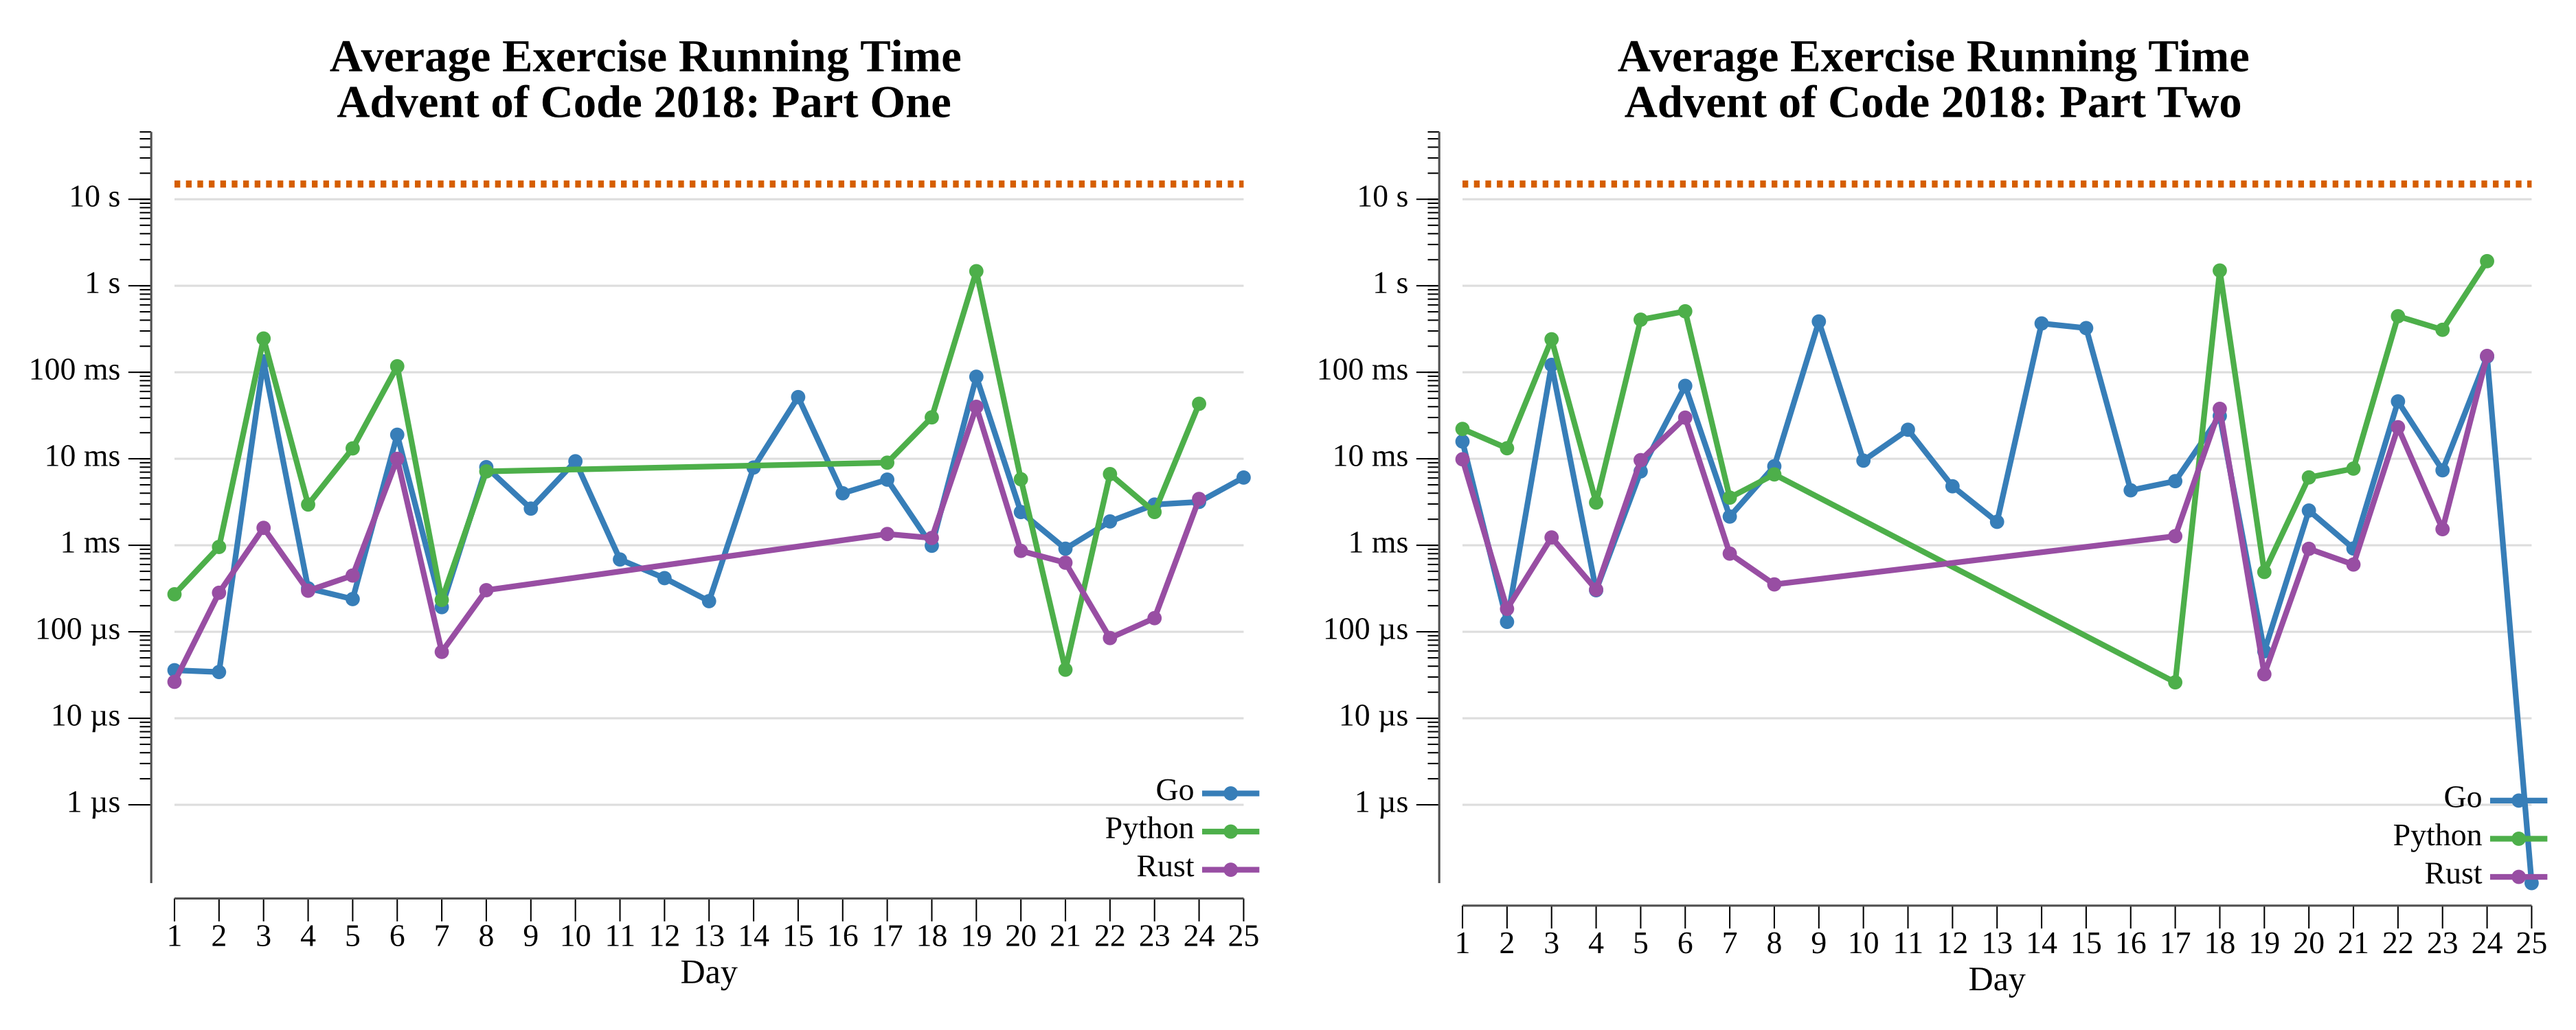
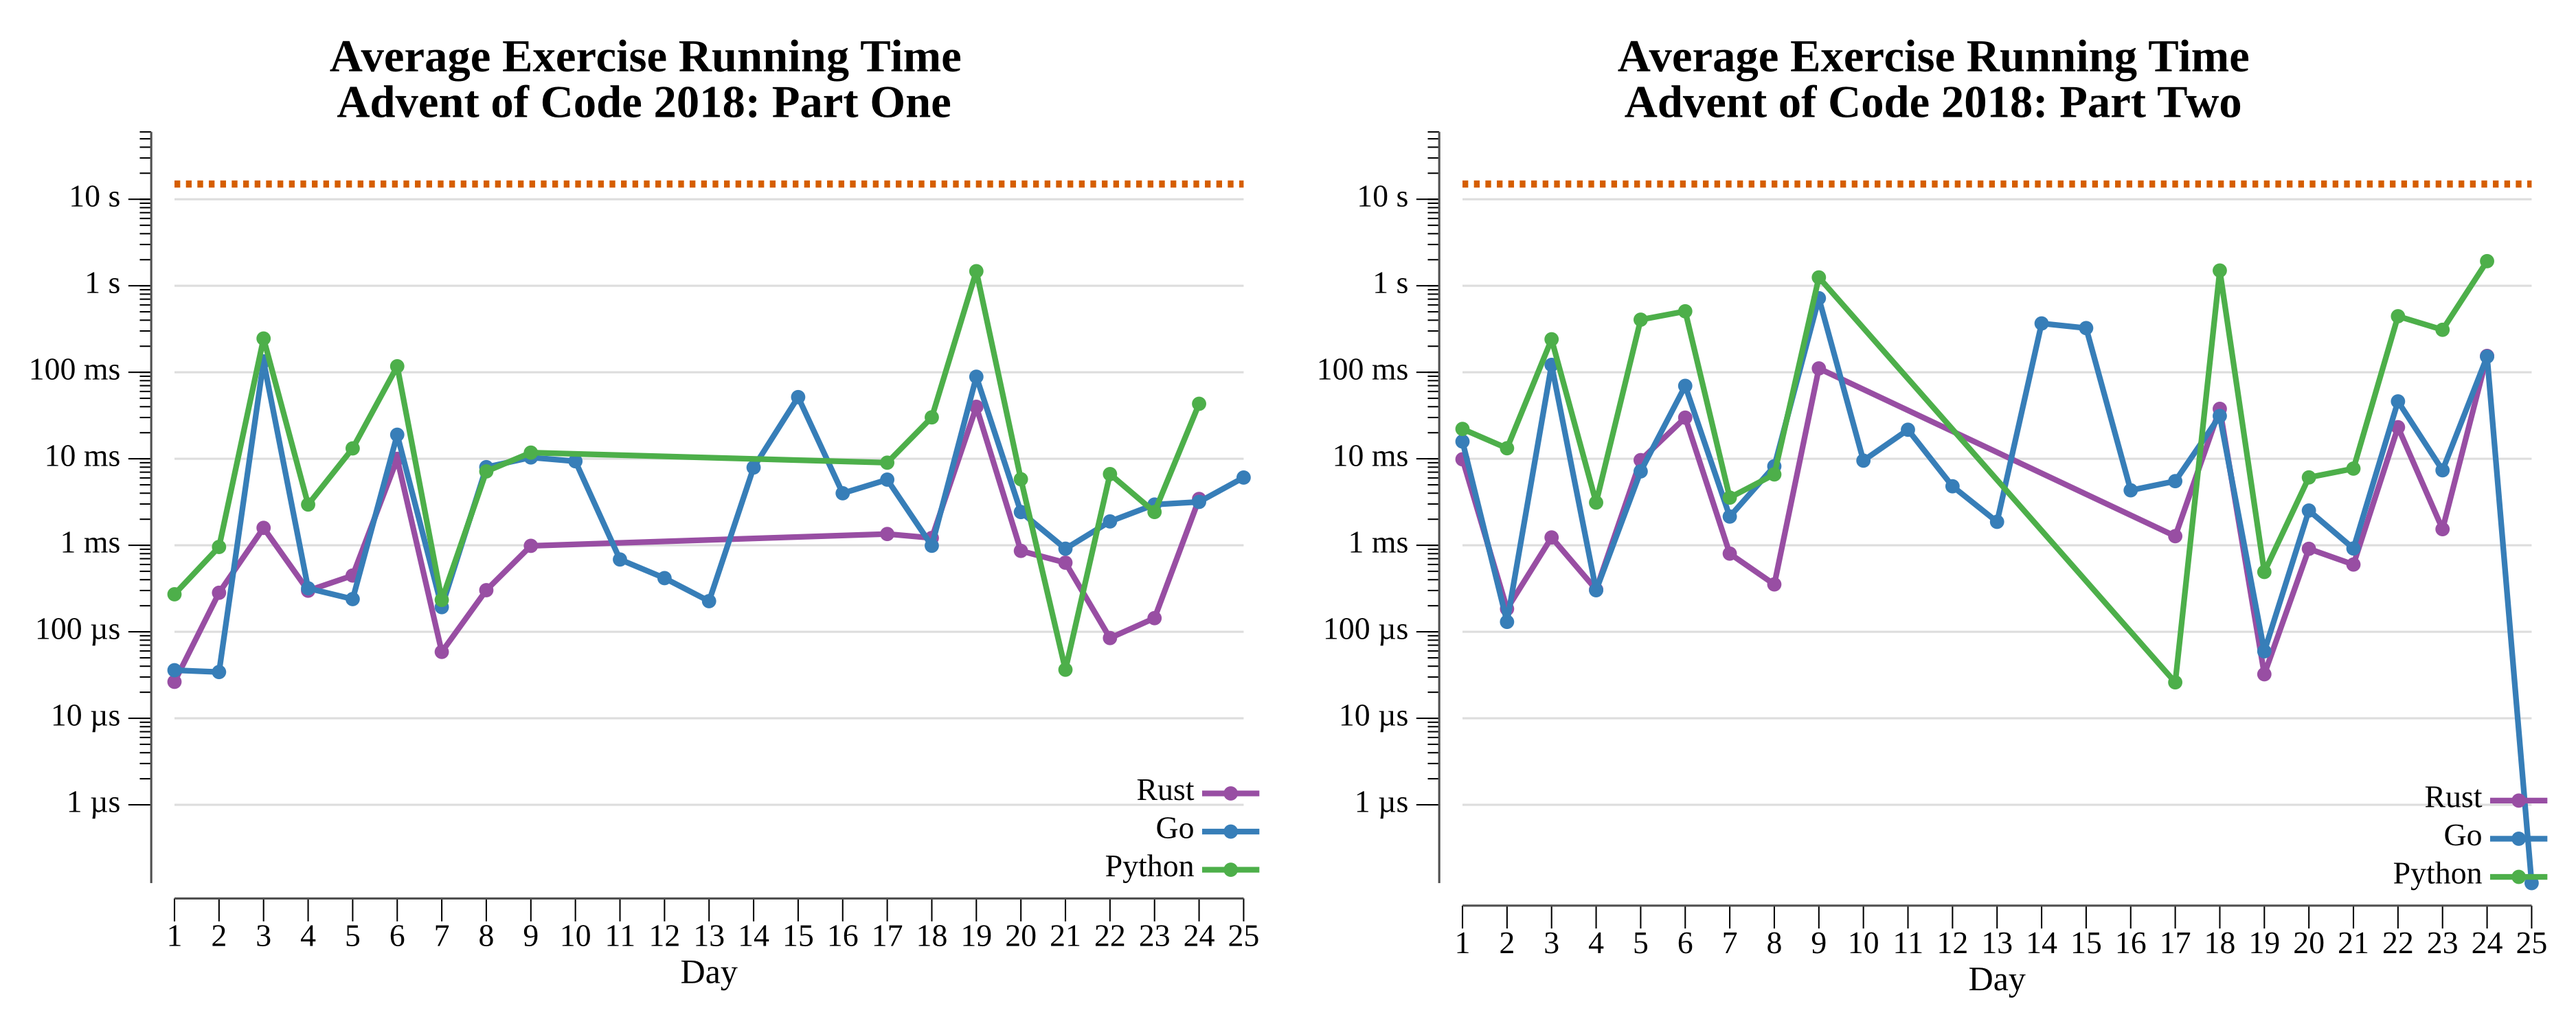
add rust and python to 2018 day 9

diff --git a/exercises/2018/09-marbleMania/rs/src/solution.rs b/exercises/2018/09-marbleMania/rs/src/solution.rs
@@ -1,0 +1,52 @@
+// Solution for Advent of Code 2018 day 9.
+
+use std::collections::VecDeque;
+
+/// Parse the player count and the last marble's worth from the puzzle input.
+fn parse(input: &str) -> (usize, usize) {
+    let nums: Vec<usize> = input
+        .split(|c: char| !c.is_ascii_digit())
+        .filter(|s| !s.is_empty())
+        .map(|s| s.parse().unwrap())
+        .collect();
+
+    (nums[0], nums[1])
+}
+
+/// Play the full game and return the winning player's score.
+///
+/// A `VecDeque` models the ring: the current marble sits at the back and
+/// `rotate_left`/`rotate_right` walk clockwise or counter-clockwise in O(1), so
+/// both the normal insertion and the scoring removal stay cheap even across the
+/// millions of marbles in part two.
+fn high_score(players: usize, last: usize) -> usize {
+    let mut scores = vec![0usize; players];
+    let mut ring: VecDeque<usize> = VecDeque::with_capacity(last + 1);
+    ring.push_back(0);
+
+    for m in 1..=last {
+        if m % 23 == 0 {
+            // Scoring move: step seven marbles counter-clockwise and remove one.
+            ring.rotate_right(7);
+            scores[m % players] += m + ring.pop_back().unwrap();
+            // The marble one clockwise becomes current.
+            ring.rotate_left(1);
+        } else {
+            // Normal move: place the marble two positions clockwise.
+            ring.rotate_left(1);
+            ring.push_back(m);
+        }
+    }
+
+    scores.into_iter().max().unwrap_or(0)
+}
+
+pub fn part_one(input: &str) -> String {
+    let (players, last) = parse(input);
+    high_score(players, last).to_string()
+}
+
+pub fn part_two(input: &str) -> String {
+    let (players, last) = parse(input);
+    high_score(players, last * 100).to_string()
+}

diff --git a/exercises/2018/09-marbleMania/py/__init__.py b/exercises/2018/09-marbleMania/py/__init__.py
@@ -1,0 +1,41 @@
+import re
+from collections import deque
+
+from aocpy import BaseExercise
+
+
+def _high_score(players: int, last: int) -> int:
+    """Play the full game and return the winning player's score.
+
+    A ``deque`` models the ring: rotating it keeps the current marble at the
+    right end, so the normal two-clockwise insertion and the scoring
+    seven-counter-clockwise removal are both O(1). ``deque.rotate`` is the
+    idiomatic, fast tool here — a plain list would shift elements and turn the
+    part-two game into an O(n^2) crawl.
+    """
+    scores = [0] * players
+    ring = deque([0])
+
+    for m in range(1, last + 1):
+        if m % 23 == 0:
+            ring.rotate(7)
+            scores[m % players] += m + ring.pop()
+            ring.rotate(-1)
+        else:
+            ring.rotate(-1)
+            ring.append(m)
+
+    return max(scores)
+
+
+# Exercise for Advent of Code 2018 day 9.
+class Exercise(BaseExercise):
+    @staticmethod
+    def one(instr: str) -> int:
+        players, last = map(int, re.findall(r"\d+", instr))
+        return _high_score(players, last)
+
+    @staticmethod
+    def two(instr: str) -> int:
+        players, last = map(int, re.findall(r"\d+", instr))
+        return _high_score(players, last * 100)

diff --git a/exercises/2018/09-marbleMania/README.md b/exercises/2018/09-marbleMania/README.md
@@ -1,6 +1,18 @@
 # [Day 9: Marble Mania](https://adventofcode.com/2018/day/9)
 
-<!-- [Day 9: Marble Mania](09-marbleMania) -->
+<!-- These are helper text to make formatting the yearly readme consistent and easier...
+
+[Day 9: Marble Mania][rm9]
+[Go][go9]
+[Rust][rs9]
+[Python][py9]
+
+[rm9]: 09-marbleMania/README.md
+[go9]: 09-marbleMania/go
+[rs9]: 09-marbleMania/rs
+[py9]: 09-marbleMania/py
+
+-->
 
 ## Notes
 
@@ -27,10 +39,39 @@ Solving (Go)…
 2.0:  PASS           563.857ms
 ```
 
-## Python
+## Rust
+
+A `VecDeque` stands in for the ring, with the current marble kept at the back.
+`rotate_left`/`rotate_right` walk the circle clockwise or counter-clockwise in O(1),
+so the normal two-clockwise insertion and the seven-counter-clockwise scoring
+removal both stay constant time — the part-two game of millions of marbles finishes
+in a fraction of a second.
 
 ```text
-    < section intentionally left blank >
+────────────────────────────────────────
+─      2018 Day 9: Marble Mania        ─
+────────────────────────────────────────
+
+Solving (Rust)…
+1.0:  PASS             1.266ms
+2.0:  PASS           118.104ms
+```
+
+## Python
+
+`collections.deque` models the ring, and `deque.rotate` is the idiomatic fast tool:
+rotating keeps the current marble at the right end so both moves are O(1) appends and
+pops. A plain list would shift elements on every insert and removal, turning the
+part-two game into an O(n²) crawl; the deque keeps it near a second.
+
+```text
+────────────────────────────────────────
+─      2018 Day 9: Marble Mania        ─
+────────────────────────────────────────
+
+Solving (Python)…
+1.0:  PASS              0.012s
+2.0:  PASS              1.260s
 ```
 
 ## Visualization

diff --git a/exercises/2018/README.md b/exercises/2018/README.md
@@ -14,7 +14,7 @@
 | [Day 6: Chronal Coordinates](06-chronalCoordinates/README.md) |  ★ ★  | [Go](06-chronalCoordinates/go) · [Rust](06-chronalCoordinates/rs) · [Python](06-chronalCoordinates/py) |
 | [Day 7: The Sum of Its Parts](07-theSumOfItsParts/README.md) |  ★ ★  | [Go](07-theSumOfItsParts/go) · [Rust](07-theSumOfItsParts/rs) · [Python](07-theSumOfItsParts/py) |
 | [Day 8: Memory Maneuver](08-memoryManeuver/README.md) |  ★ ★  | [Go](08-memoryManeuver/go) · [Rust](08-memoryManeuver/rs) · [Python](08-memoryManeuver/py) |
-| [Day 9: Marble Mania](09-marbleMania/README.md) |  ★ ★  | [Go](09-marbleMania/go) |
+| [Day 9: Marble Mania](09-marbleMania/README.md) |  ★ ★  | [Go](09-marbleMania/go) · [Rust](09-marbleMania/rs) · [Python](09-marbleMania/py) |
 | [Day 10: The Stars Align](10-theStarsAlign/README.md) |  ★ ★  | [Go](10-theStarsAlign/go) |
 | [Day 11: Chronal Charge](11-chronalCharge/README.md) |  ★ ★  | [Go](11-chronalCharge/go) |
 | [Day 12: Subterranean Sustainability](12-subterraneanSustainability/README.md) |  ★ ★  | [Go](12-subterraneanSustainability/go) |
